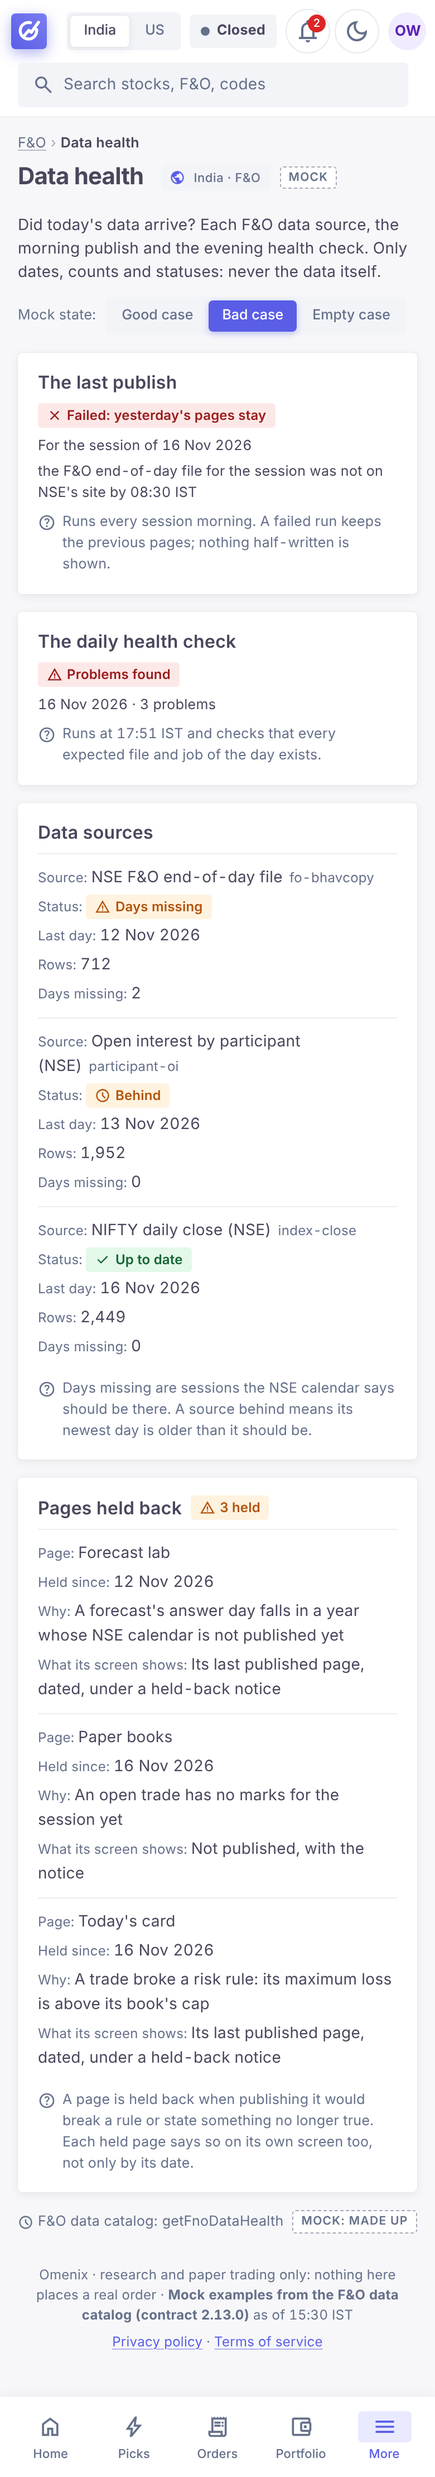
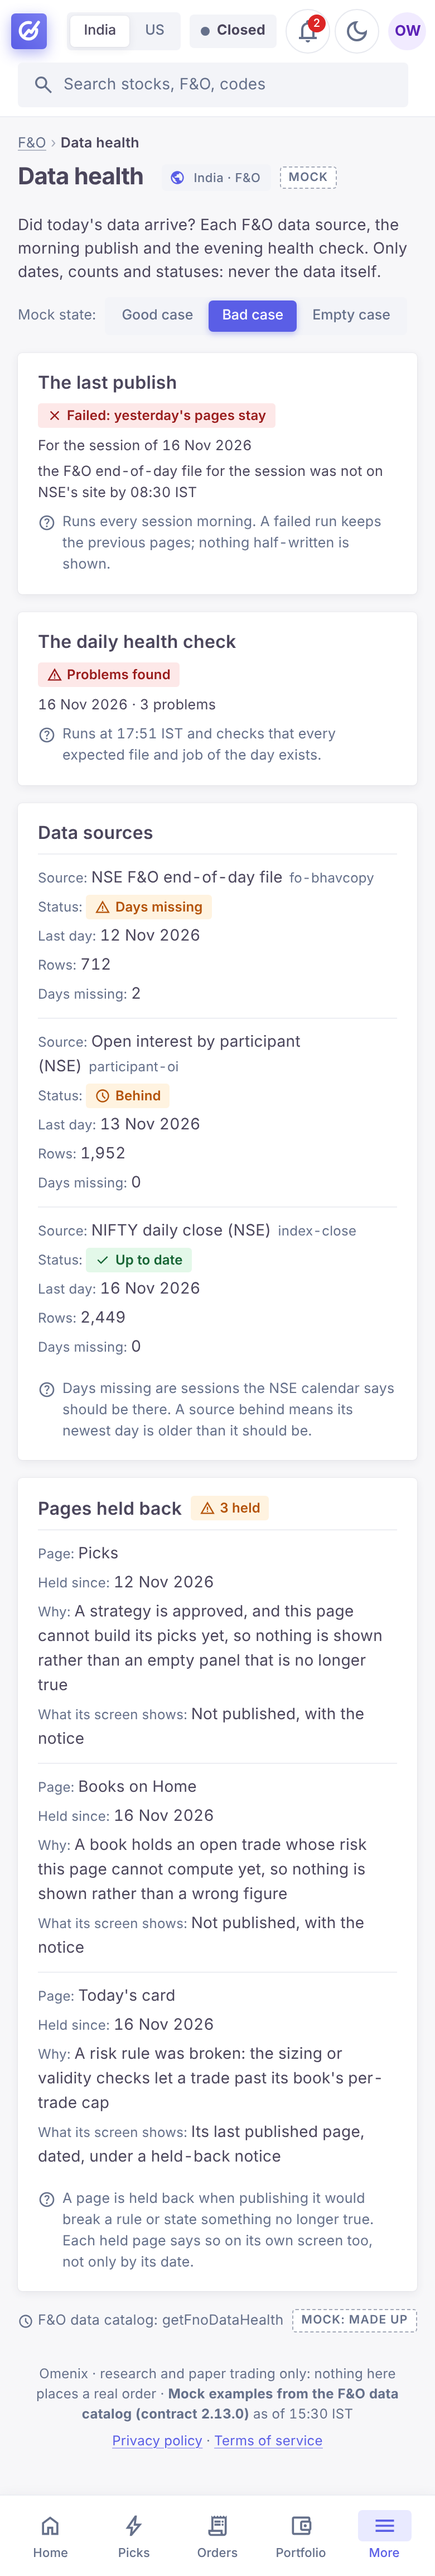
Contract 2.13.0: page_holds examples use P11's own hold sentences, digit-free and plain (judge 255)
Judge 255: the no-digits pattern refused P11's passed card sentence ("C2 sizing or C4 validity ..."), a whole-run stop
on the over-cap day, and my example sentences differed from P11's. The pattern stays (no value and no story code can
reach the owner's screen); P11's code owns the one list, reworded digit-free in plain words: the card's risk-rule
sentence and Home's two holds (open-trade risk, approved picks). The examples copy those three; the invented
calendar reason (P11 has none) is gone. Mockup 44's bad case shows Home's picks and books and the card.

Claude-Session: https://claude.ai/code/session_01XFXpbkyixX7SuXeQCp5EnX

diff --git a/design/mockups/44-data-health/page.html b/design/mockups/44-data-health/page.html
@@ -1505,7 +1505,7 @@ footer{color:var(--md-sys-color-on-surface-variant);font-size:12px;text-align:ce
   <symbol id="mb-logo" viewBox="0 0 64 64"><g fill="none" stroke="currentColor" stroke-width="7.5" stroke-linecap="round" stroke-linejoin="round"><path d="M52.3 29.15 A20.5 20.5 0 1 1 36.96 12.11"/><path d="M21 45 L33 31 L39 36 L57 11"/></g></symbol>
 </svg>
 
[2 lines of base64/hex data omitted]
 <script>
 /* every state is a Mock example on 16 Nov 2026 at 15:30 IST, after the card was sent (the catalog's made-up date) */
 (() => { SHELL.now = '2026-11-16T10:00:00Z';

diff --git a/api/catalog/fno-screens.md b/api/catalog/fno-screens.md
@@ -335,16 +335,16 @@ Backend records named in the tables (exepex/trading):
 - **What it holds:** The pages held back in this publication, each with the first session it was held in a row, the reason it was held and what the screen shows meanwhile. Empty state: holds empty (every page published normally)
 - **Mock examples:**
   - `india_none` (positive): Mock (india): every page published. A normal day: nothing held back
-  - `india_held` (negative): Mock (india): three pages held back. The Forecast lab keeps its 11 Nov page (an answer day's calendar is missing); the paper books show nothing (an open trade has no marks); the card shows the previous card under its own notice
+  - `india_held` (negative): Mock (india): three pages held back. Home's picks and books show nothing (a page that would state something no longer true); the card shows the previous card under its own notice
   - `india_first` (empty): Mock (india): the first publication. No page has been held yet
 - **Never sent (strategy internals):** the held page's figures or the value that broke the rule (only which page, since when and which rule)
 - **Fields:** 4, of which the backend can fill 0 today
 
 | Field | Meaning | Unit | Source record (backend) | Freshness | Visibility | Backend today |
 |---|---|---|---|---|---|---|
-| `holds[].page_key` | The held page's key (e.g. forecast_lab, paper_trades, today, risk, card) | id | P11's per-page hold (the publication's held list and fno.run_status) | with every publication | public | no: P11 |
+| `holds[].page_key` | The held page's key (e.g. today and risk on Home, card) | id | P11's per-page hold (the publication's held list and fno.run_status) | with every publication | public | no: P11 |
 | `holds[].since` | The first session of this hold in a row | date (IST) | P11's per-page hold (the publication's held list and fno.run_status) | with every publication | public | no: P11 |
-| `holds[].reason` | The rule that held it, a fixed sentence from P11's list (never a value: no digits) | text | P11's per-page hold (the publication's held list and fno.run_status) | with every publication | public | no: P11 |
+| `holds[].reason` | Why it is held: one of P11's fixed sentences, in plain words, owned by its code (never a value, never a story or record code: no digits) | text | P11's per-page hold (the publication's held list and fno.run_status) | with every publication | public | no: P11 |
 | `holds[].shows` | previous_page = the page keeps its last published row, dated by its own as_of; nothing = no row is shown, because the old one would state something no longer true (the screen says "not published") | enum | P11's per-page hold (the publication's held list and fno.run_status) | with every publication | public | no: P11 |
 
 ## The F&O Strategy lab: every trial counted, each idea's gate, each approved version's paper record per book

diff --git a/design/mockups/44-data-health/notes.md b/design/mockups/44-data-health/notes.md
@@ -27,7 +27,8 @@ FnoDataHealth (`api/schemas/fno-data-health.yaml`), page `data_health`, contract
 3. **The stock side's data health is a separate section later**, never mixed into this one.
 
 **Pages held back (contract 2.13.0, `getFnoPageHolds`, page `page_holds`; judge 251 on P11):** drawn below the health
-rows in the same case as the state (data.json `also`): none on a good day; in the bad case the Forecast lab (an answer
-day's calendar missing, its last page shown), the paper books (an open trade without marks, nothing shown) and the card
-(a risk rule broken, the previous card under its own notice); none in the empty case. Each reason is a fixed sentence,
-never a value (the schema refuses digits). Every held page also says so on its own screen.
+rows in the same case as the state (data.json `also`): none on a good day; in the bad case Home's picks and books
+(nothing shown, since their old pages would state something no longer true) and the card (the previous card under its
+own notice); none in the empty case. Each reason is one of P11's fixed sentences, owned by its code, in plain words
+with no digits (the schema refuses digits, so no value and no story code can enter; judge 255). Every held page also
+says so on its own screen.
